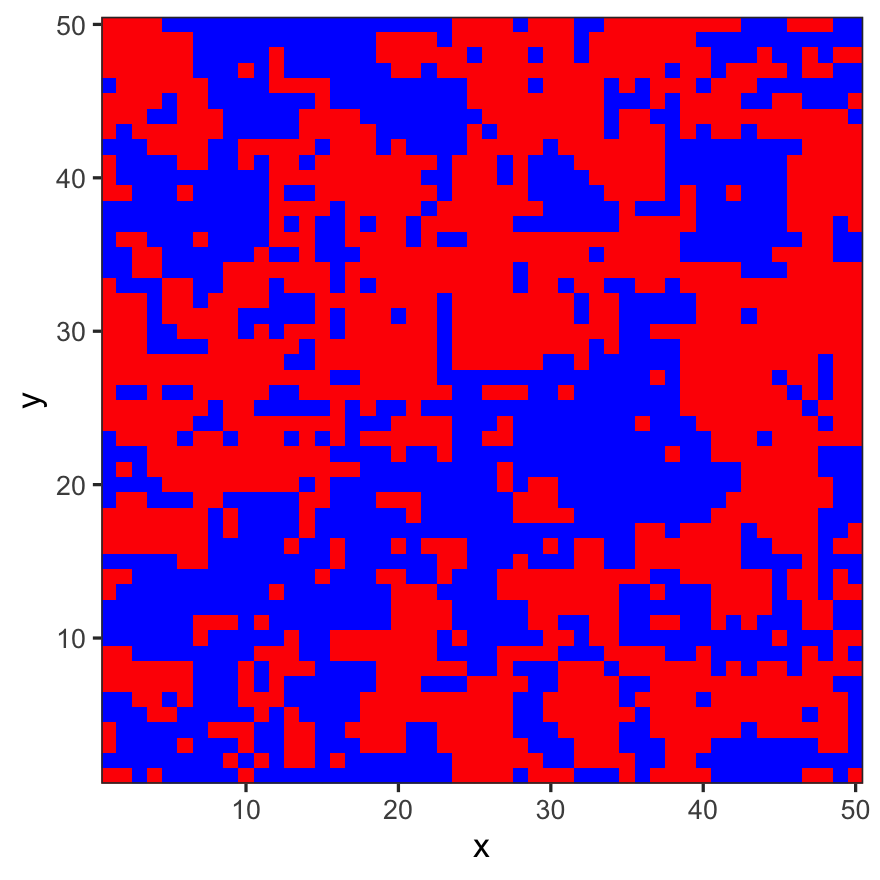
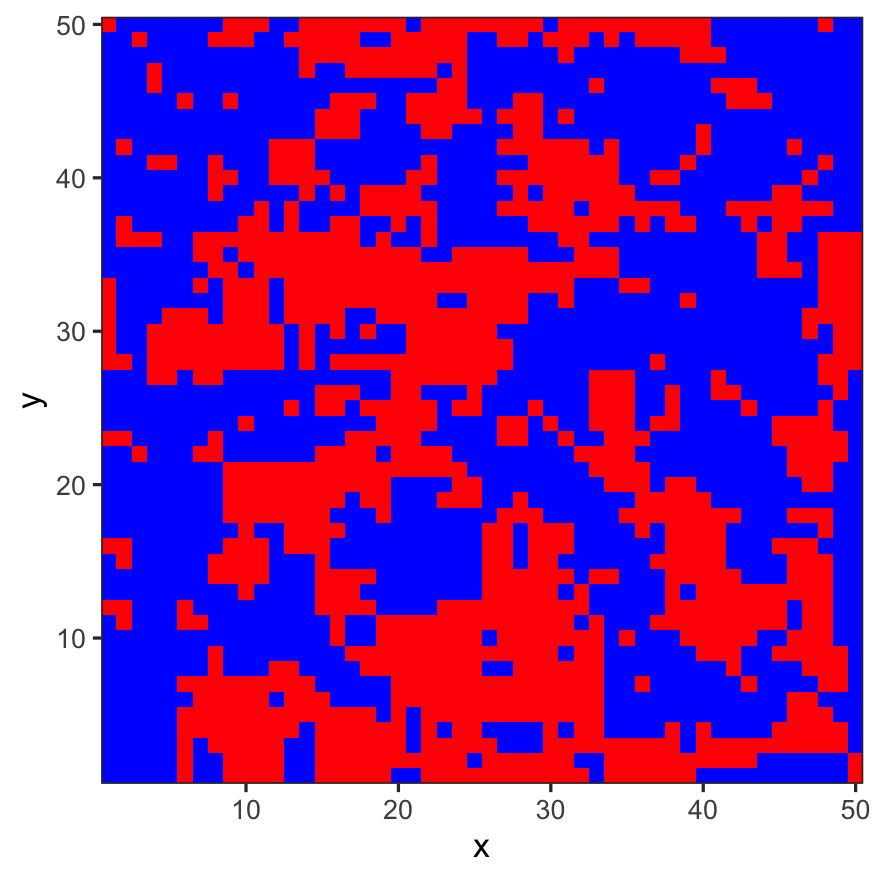
50x50 computation

diff --git a/README.md b/README.md
@@ -15,7 +15,11 @@ After a bit of Monte Carlo, a domain pattern emerges at low enough temperatures:
 
 Repeating this procedure over a range of temperatures and waiting for convergence, one finds the phase transition where domains can form:
 
-![Ising 2D transition expected near 2.3](images/Ising2D-25x25-c200.png)
+![Ising 2D transition expected near 2.3](images/Ising2D-25x25-c1000.png)
+
+The susceptibility was also computed, it is found at T/J = 2.36; the critical temperature is at [T/J = 2.27](https://en.wikipedia.org/wiki/Square-lattice_Ising_model).
+
+![Susceptibility as a function of temperature shows Lambda Peak](images/Ising2D-25x25-c1000-Chi.png)
 
 
 ## Optimization
